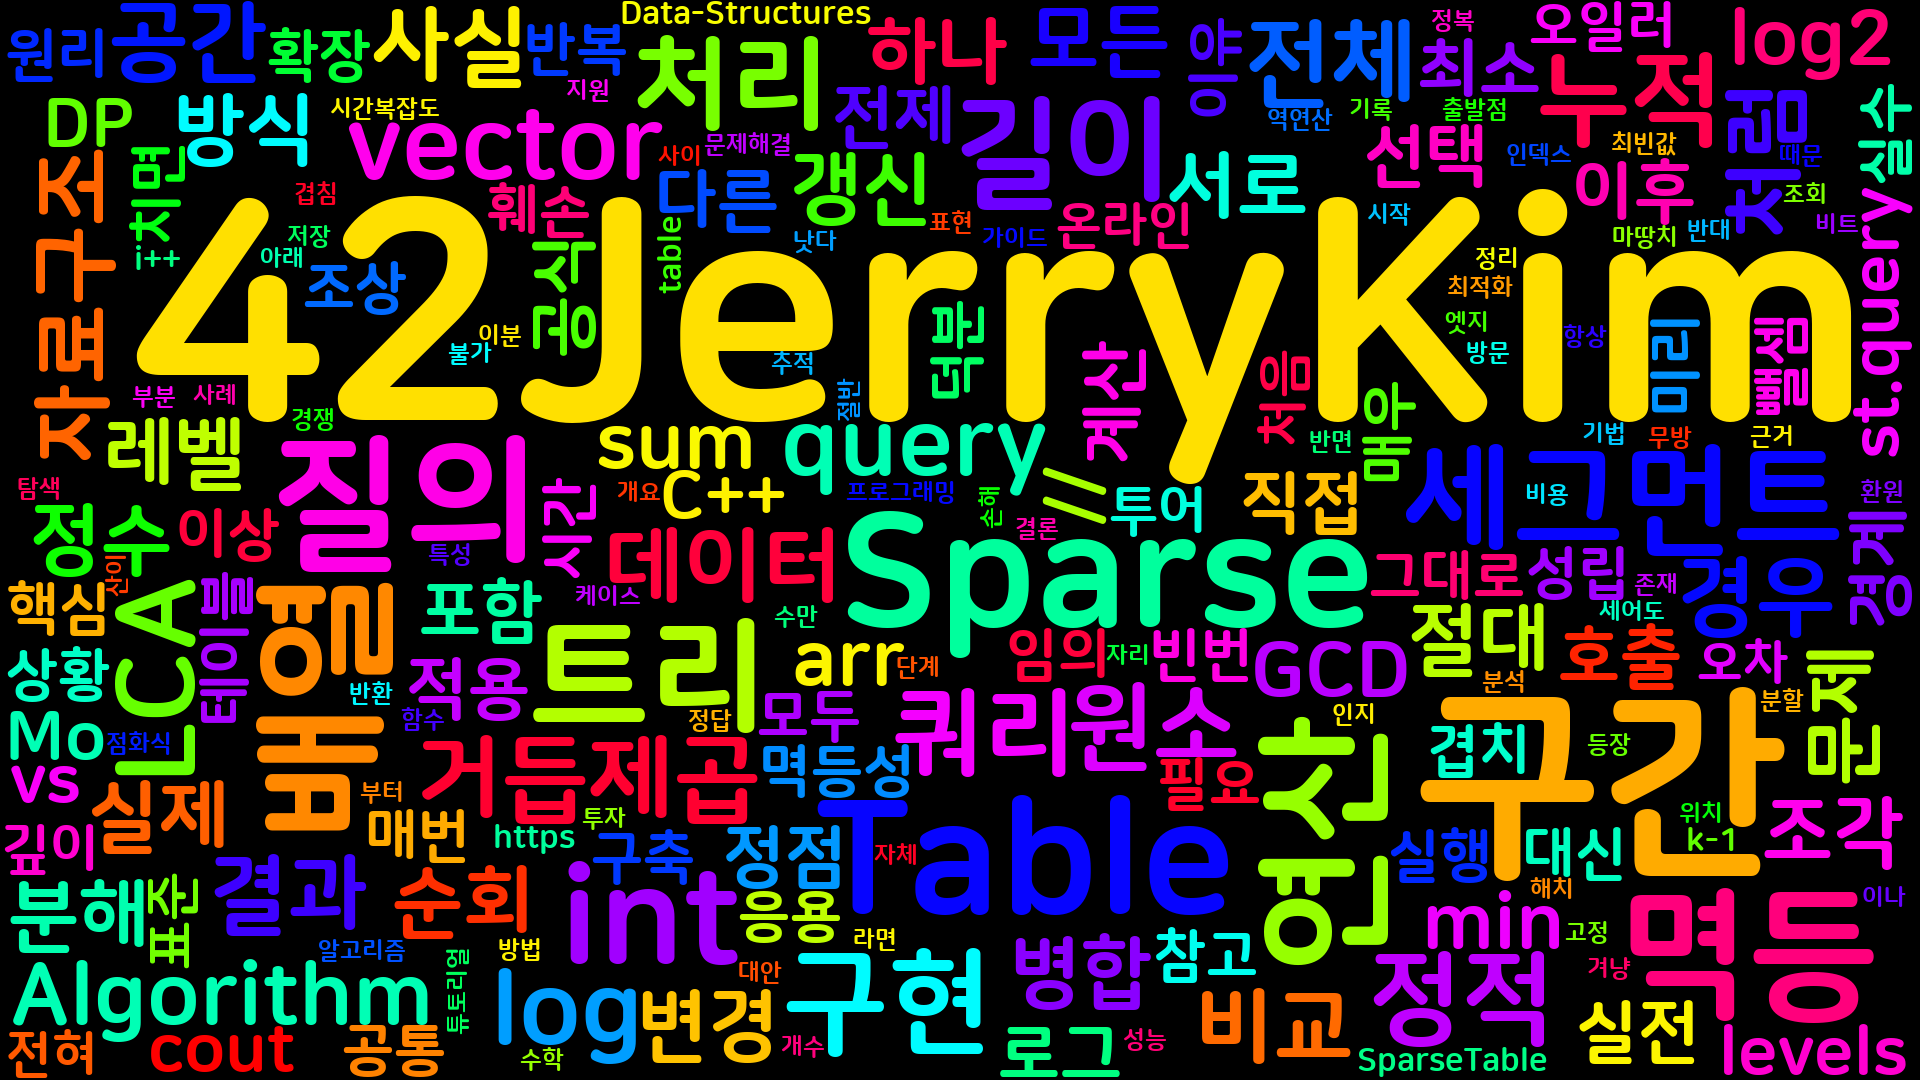
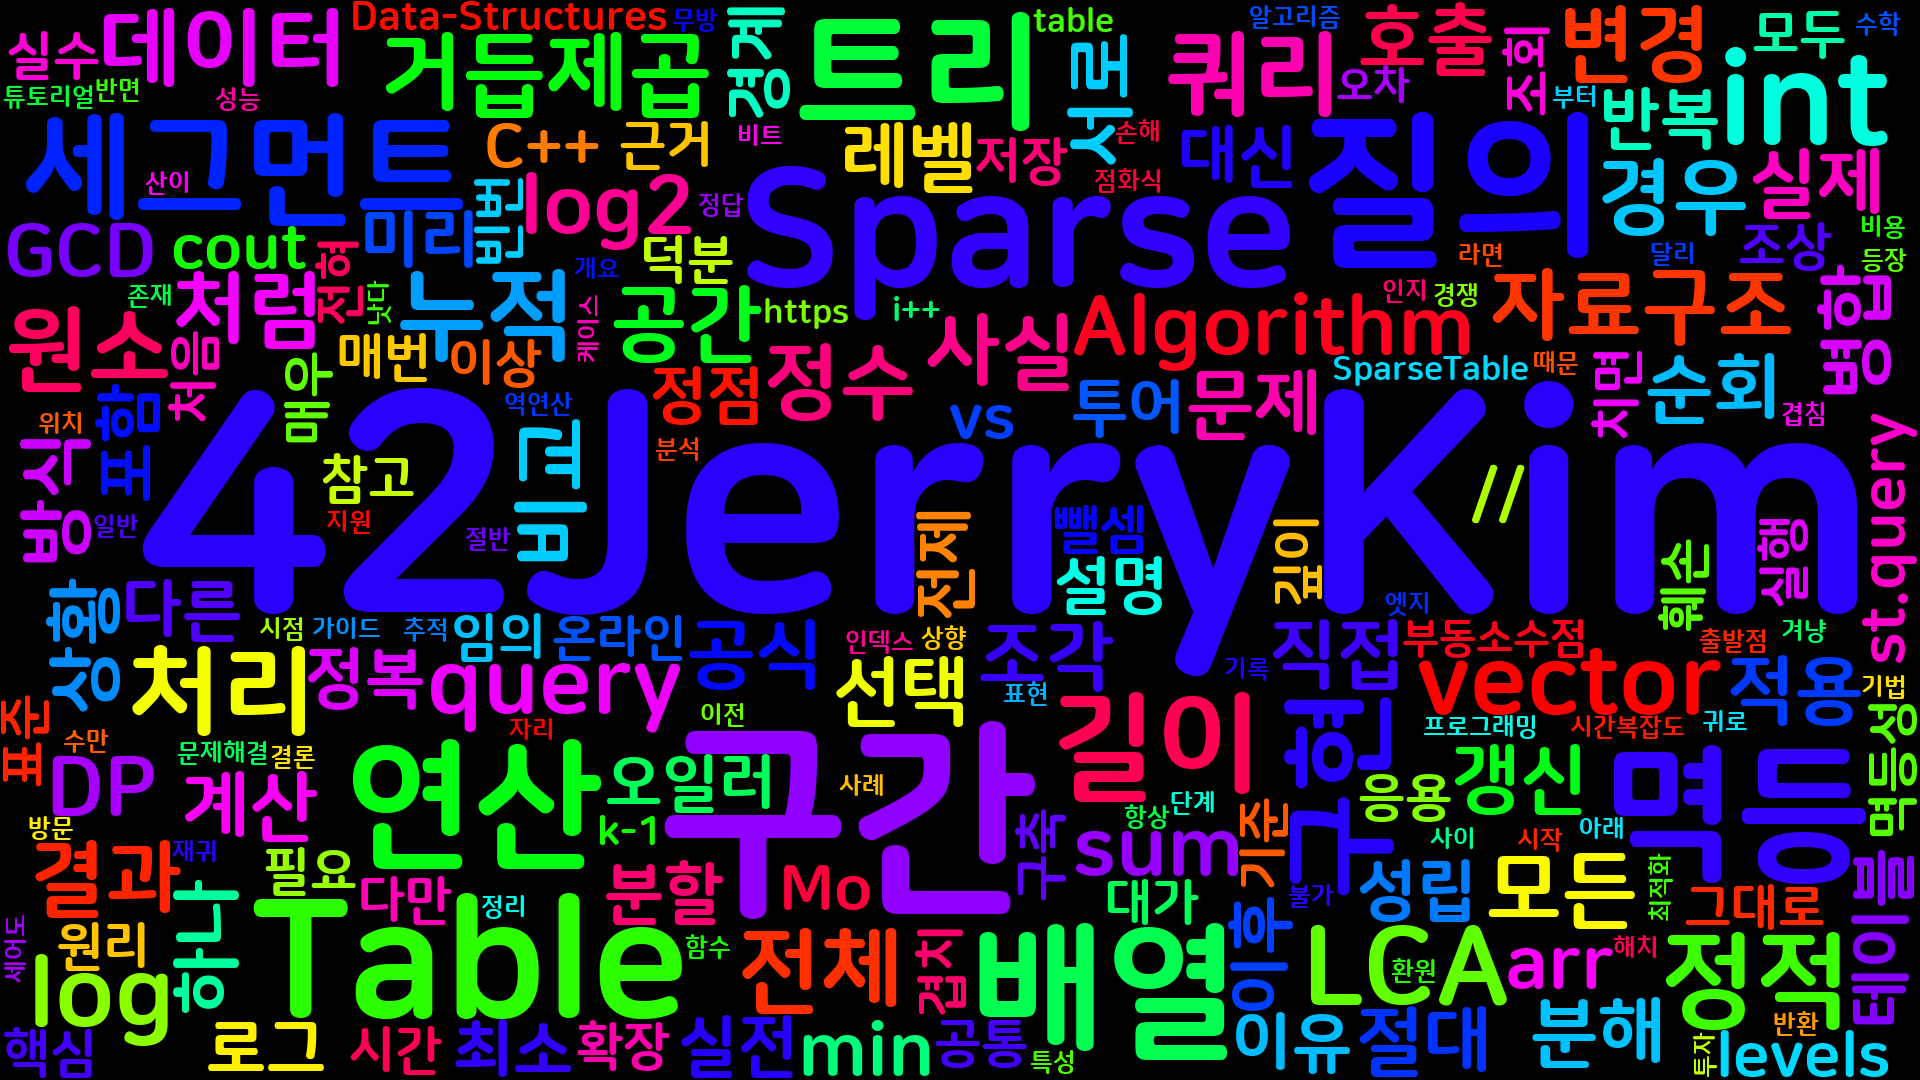
fix: quality-critic 1차 결함 반영 (85.3점 -> 재채점 대상)
- 항목2: "평가 기준" 절 신설 (학습 성과 목표 4개 명시)
- 항목7: 본문과 연결 안 되던 Binary-Search 태그 제거, 분할정복 태그는
  핵심 원리 절에 실제 연결 서술을 추가해 유지
- 개선여지(패딩 아님): 워드클라우드 이미지 재생성

diff --git a/content/post/2026/2026-09-07-sparse-table-range-minimum-query/index.md b/content/post/2026/2026-09-07-sparse-table-range-minimum-query/index.md
@@ -35,7 +35,6 @@ tags:
   - Problem-Solving(문제해결)
   - BOJ(백준)
   - Baekjoon
-  - Binary-Search(이분탐색)
   - Divide-and-Conquer(분할정복)
 image: "wordcloud.png"
 ---
@@ -46,7 +45,7 @@ image: "wordcloud.png"
 
 ## 핵심 원리: 멱등 연산과 2의 거듭제곱 분해
 
-Sparse Table의 출발점은 "0 이상의 모든 정수는 서로 다른 2의 거듭제곱들의 합으로 유일하게 표현된다"는 사실이다. 이 사실을 구간에 적용하면 임의의 구간 `[L, R]`을 O(log n)개의 길이 2^k 구간으로 쪼개어 덮을 수 있다는 결론이 나온다. 전처리 단계에서는 `table[k][i]`에 "인덱스 i부터 시작하는 길이 2^k 구간"의 답을 저장하는 DP 테이블을 만든다. 점화식은 `table[k][i] = f(table[k-1][i], table[k-1][i + 2^(k-1)])`로, 길이 2^k 구간을 절반씩 두 개의 2^(k-1) 구간으로 나눠 병합하는 방식이며 전체 전처리에는 O(n log n) 시간과 공간이 든다.
+Sparse Table의 출발점은 "0 이상의 모든 정수는 서로 다른 2의 거듭제곱들의 합으로 유일하게 표현된다"는 사실이다. 이 사실을 구간에 적용하면 임의의 구간 `[L, R]`을 O(log n)개의 길이 2^k 구간으로 쪼개어 덮을 수 있다는 결론이 나온다. 전처리 단계에서는 `table[k][i]`에 "인덱스 i부터 시작하는 길이 2^k 구간"의 답을 저장하는 DP 테이블을 만든다. 점화식은 `table[k][i] = f(table[k-1][i], table[k-1][i + 2^(k-1)])`로, 길이 2^k 구간을 절반씩 두 개의 2^(k-1) 구간으로 나눠 병합하는 분할정복(divide-and-conquer) 방식이며 전체 전처리에는 O(n log n) 시간과 공간이 든다. 다만 매 질의마다 재귀로 구간을 쪼개는 일반적인 분할정복과 달리, Sparse Table은 가능한 모든 2^k 구간의 답을 질의 이전에 한 번씩 미리 계산해 저장해 둔다는 점에서 상향식(bottom-up) DP에 가깝다 — 그 대가로 질의 시점에는 재귀 호출 없이 테이블 조회 두 번으로 끝난다.
 
 질의 방식은 병합 함수 f가 <strong>멱등(idempotent)</strong>인지에 따라 갈린다. 최솟값·최댓값·GCD·비트 AND/OR처럼 같은 원소를 두 번 세어도 결과가 바뀌지 않는 연산이라면, 구간 `[L, R]`을 딱 두 개의 (겹쳐도 무방한) 2^k 구간만으로 덮어 O(1)에 답할 수 있다. `k = floor(log2(R - L + 1))`로 두면 `f(table[k][L], table[k][R - 2^k + 1])`가 정답이 되는데, 두 구간이 서로 겹치더라도 멱등성 덕분에 결과가 훼손되지 않기 때문이다. 반면 합(sum)처럼 멱등이 아닌 연산은 원소가 두 번 세어지면 값이 실제로 바뀌므로, 구간을 겹치지 않는 O(log n)개의 조각으로 정확히 분해해서 더해야 하며 이 경우 질의는 O(log n)으로 늘어난다.
 
@@ -133,6 +132,10 @@ Sparse Table이 실전에서 가장 빈번하게 쓰이는 자리 중 하나는 
 ## 요약
 
 Sparse Table은 "배열이 절대 바뀌지 않는다"는 전제를 받아들이는 대가로, 세그먼트 트리보다 구현이 단순하면서도 멱등 연산에 한해 로그 팩터조차 없는 O(1) 쿼리를 얻는 자료구조다. 핵심은 모든 구간을 2의 거듭제곱 길이 조각으로 분해할 수 있다는 사실과, 멱등 연산은 그 조각들이 겹쳐도 결과가 훼손되지 않는다는 성질을 결합한 것이다. 갱신이 전혀 없고 최솟값·최댓값·GCD 같은 멱등 질의가 매우 많이 반복되는 상황(대표적으로 LCA)에서는 표준 선택이 되지만, 값 변경이 섞이거나 합처럼 비멱등 연산이 필요하면 세그먼트 트리나 누적합 배열로 넘어가야 한다.
+
+## 평가 기준
+
+이 글을 읽은 후에는 다음을 할 수 있어야 한다. 겹치는 두 구간으로 덮는 O(1) 질의 공식이 최솟값·최댓값 같은 멱등 연산에서만 성립하고 합(sum)에는 왜 적용할 수 없는지 설명할 수 있다. 정적 데이터에 멱등 질의가 반복되는 상황에서는 Sparse Table을, 값 변경이 섞인 상황에서는 세그먼트 트리를 근거를 들어 선택할 수 있다. `log_table`을 부동소수점 `log2()` 대신 정수 DP로 채워야 하는 이유를 설명하고 직접 구현할 수 있다. 오일러 투어로 트리를 배열로 평탄화한 뒤 Sparse Table을 얹어 LCA를 O(1) 질의로 바꾸는 과정을 설명할 수 있다.
 
 ## 참고 자료
 
